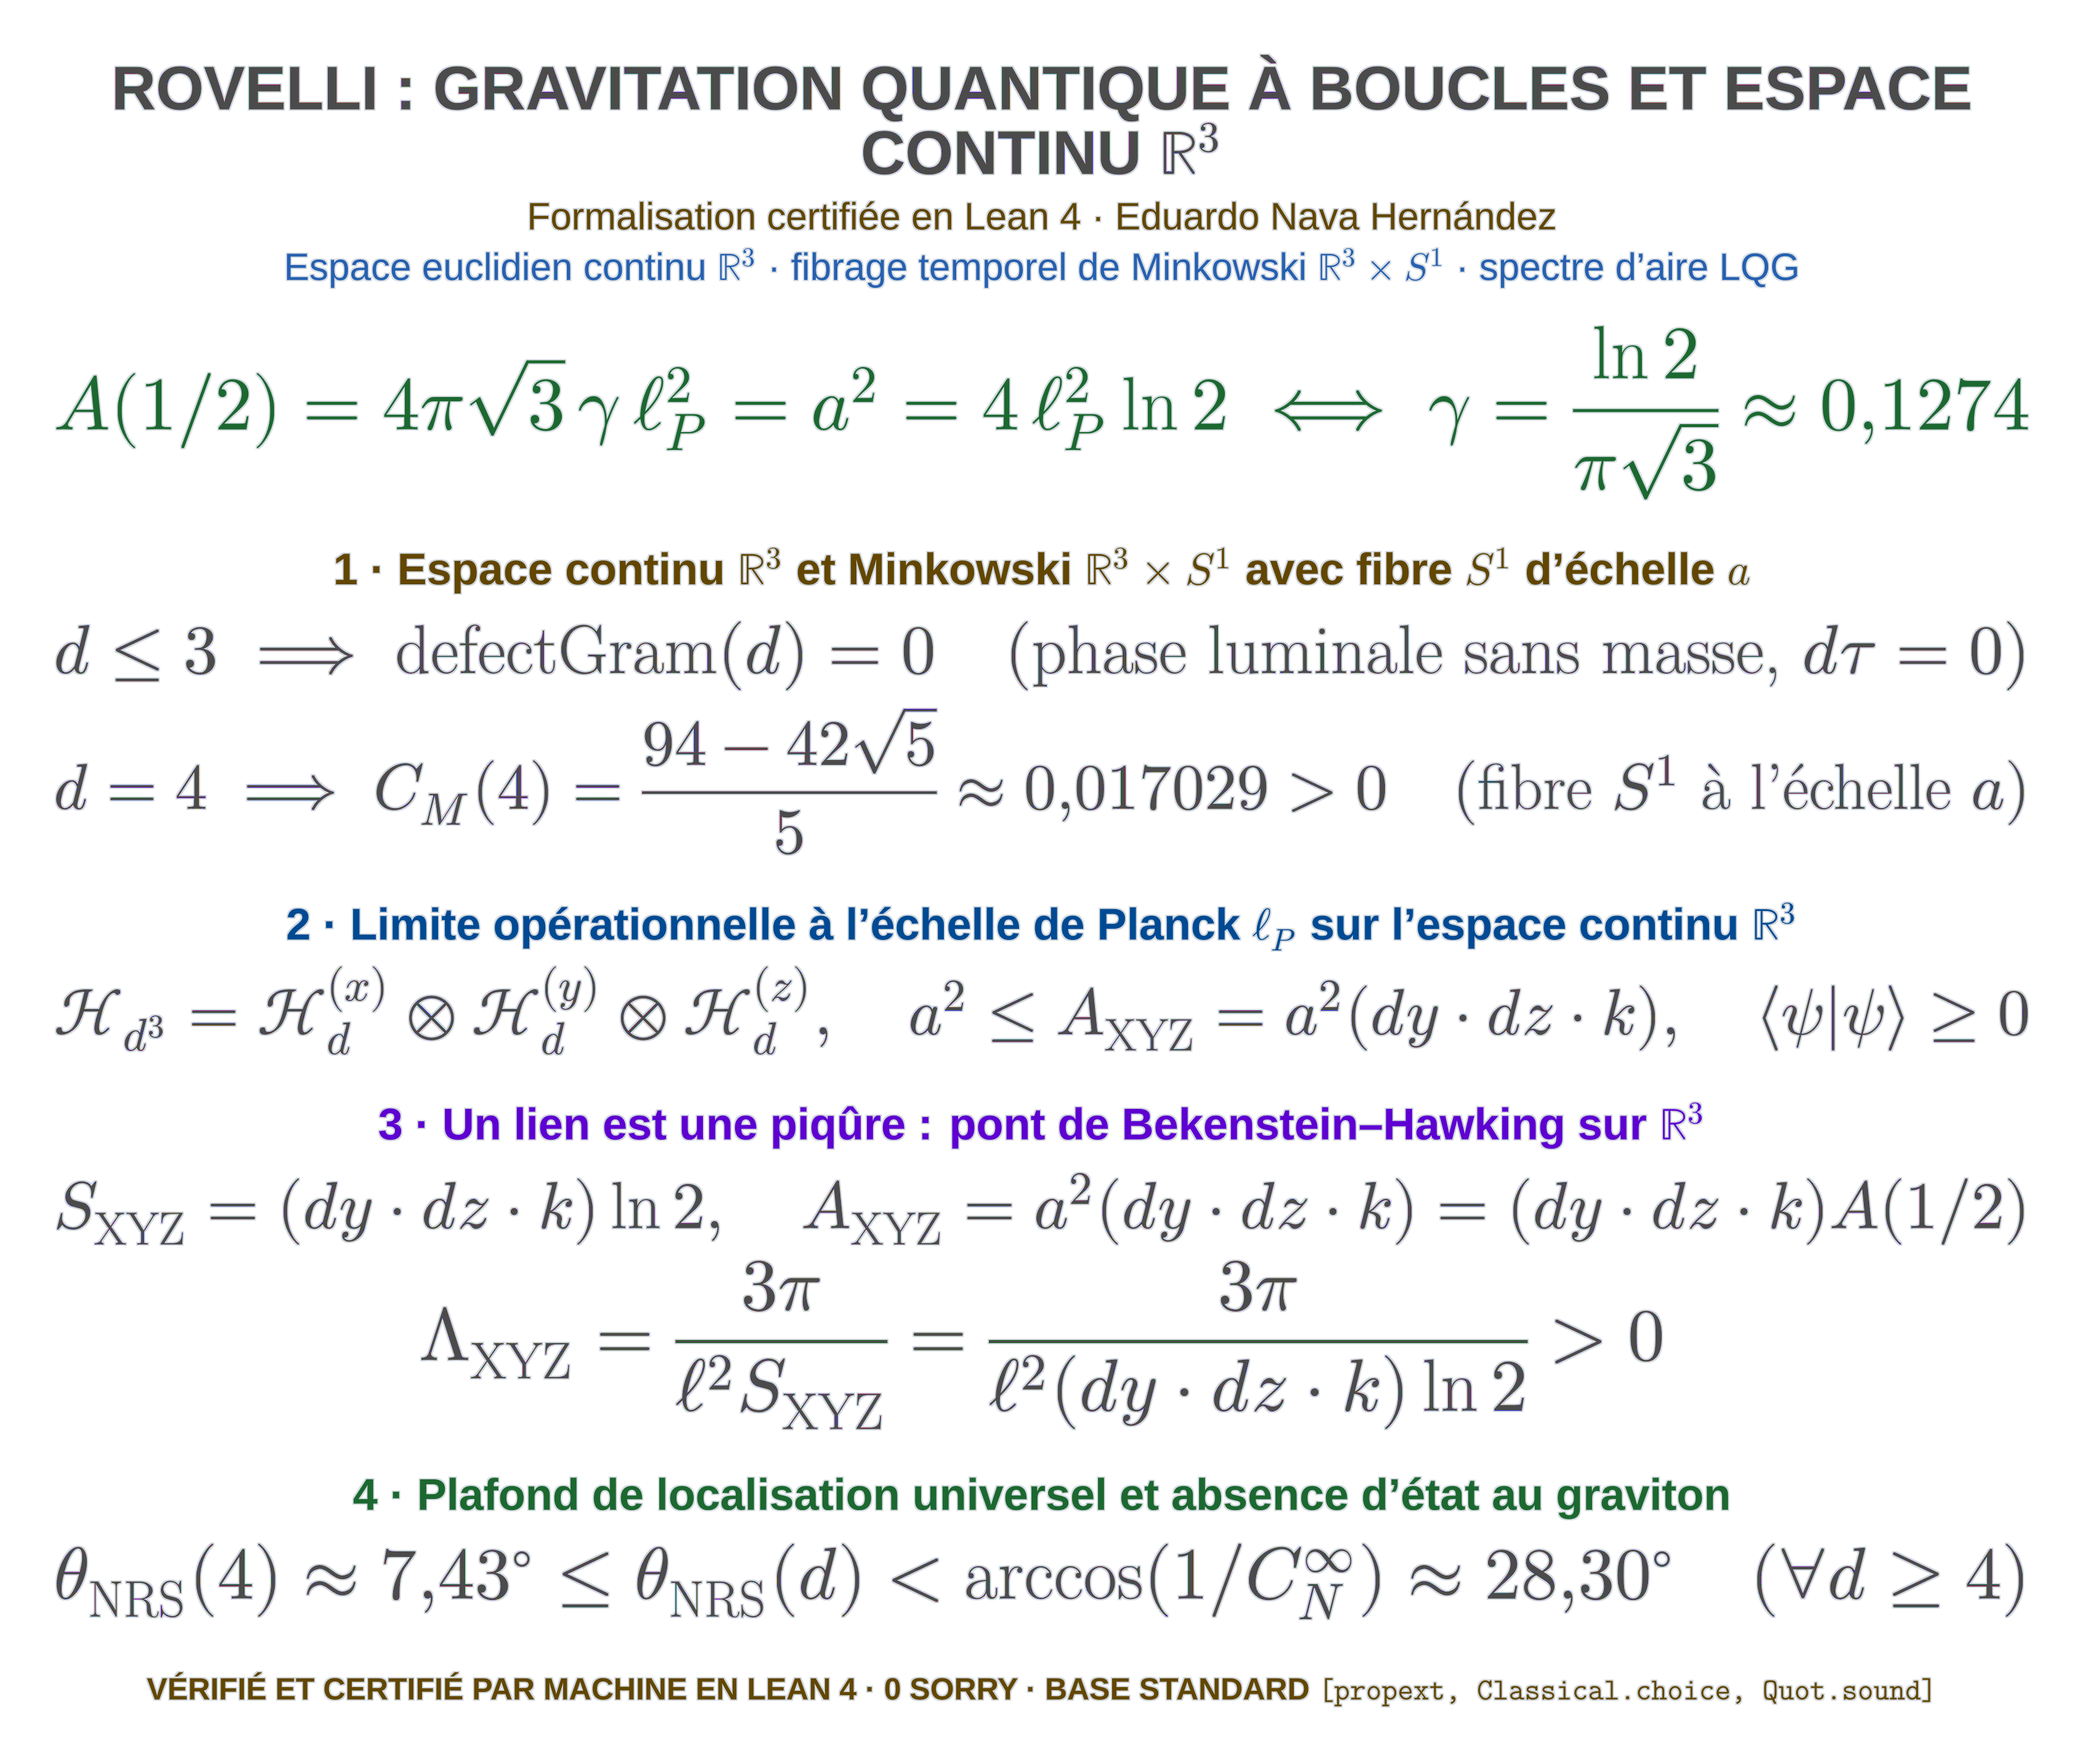
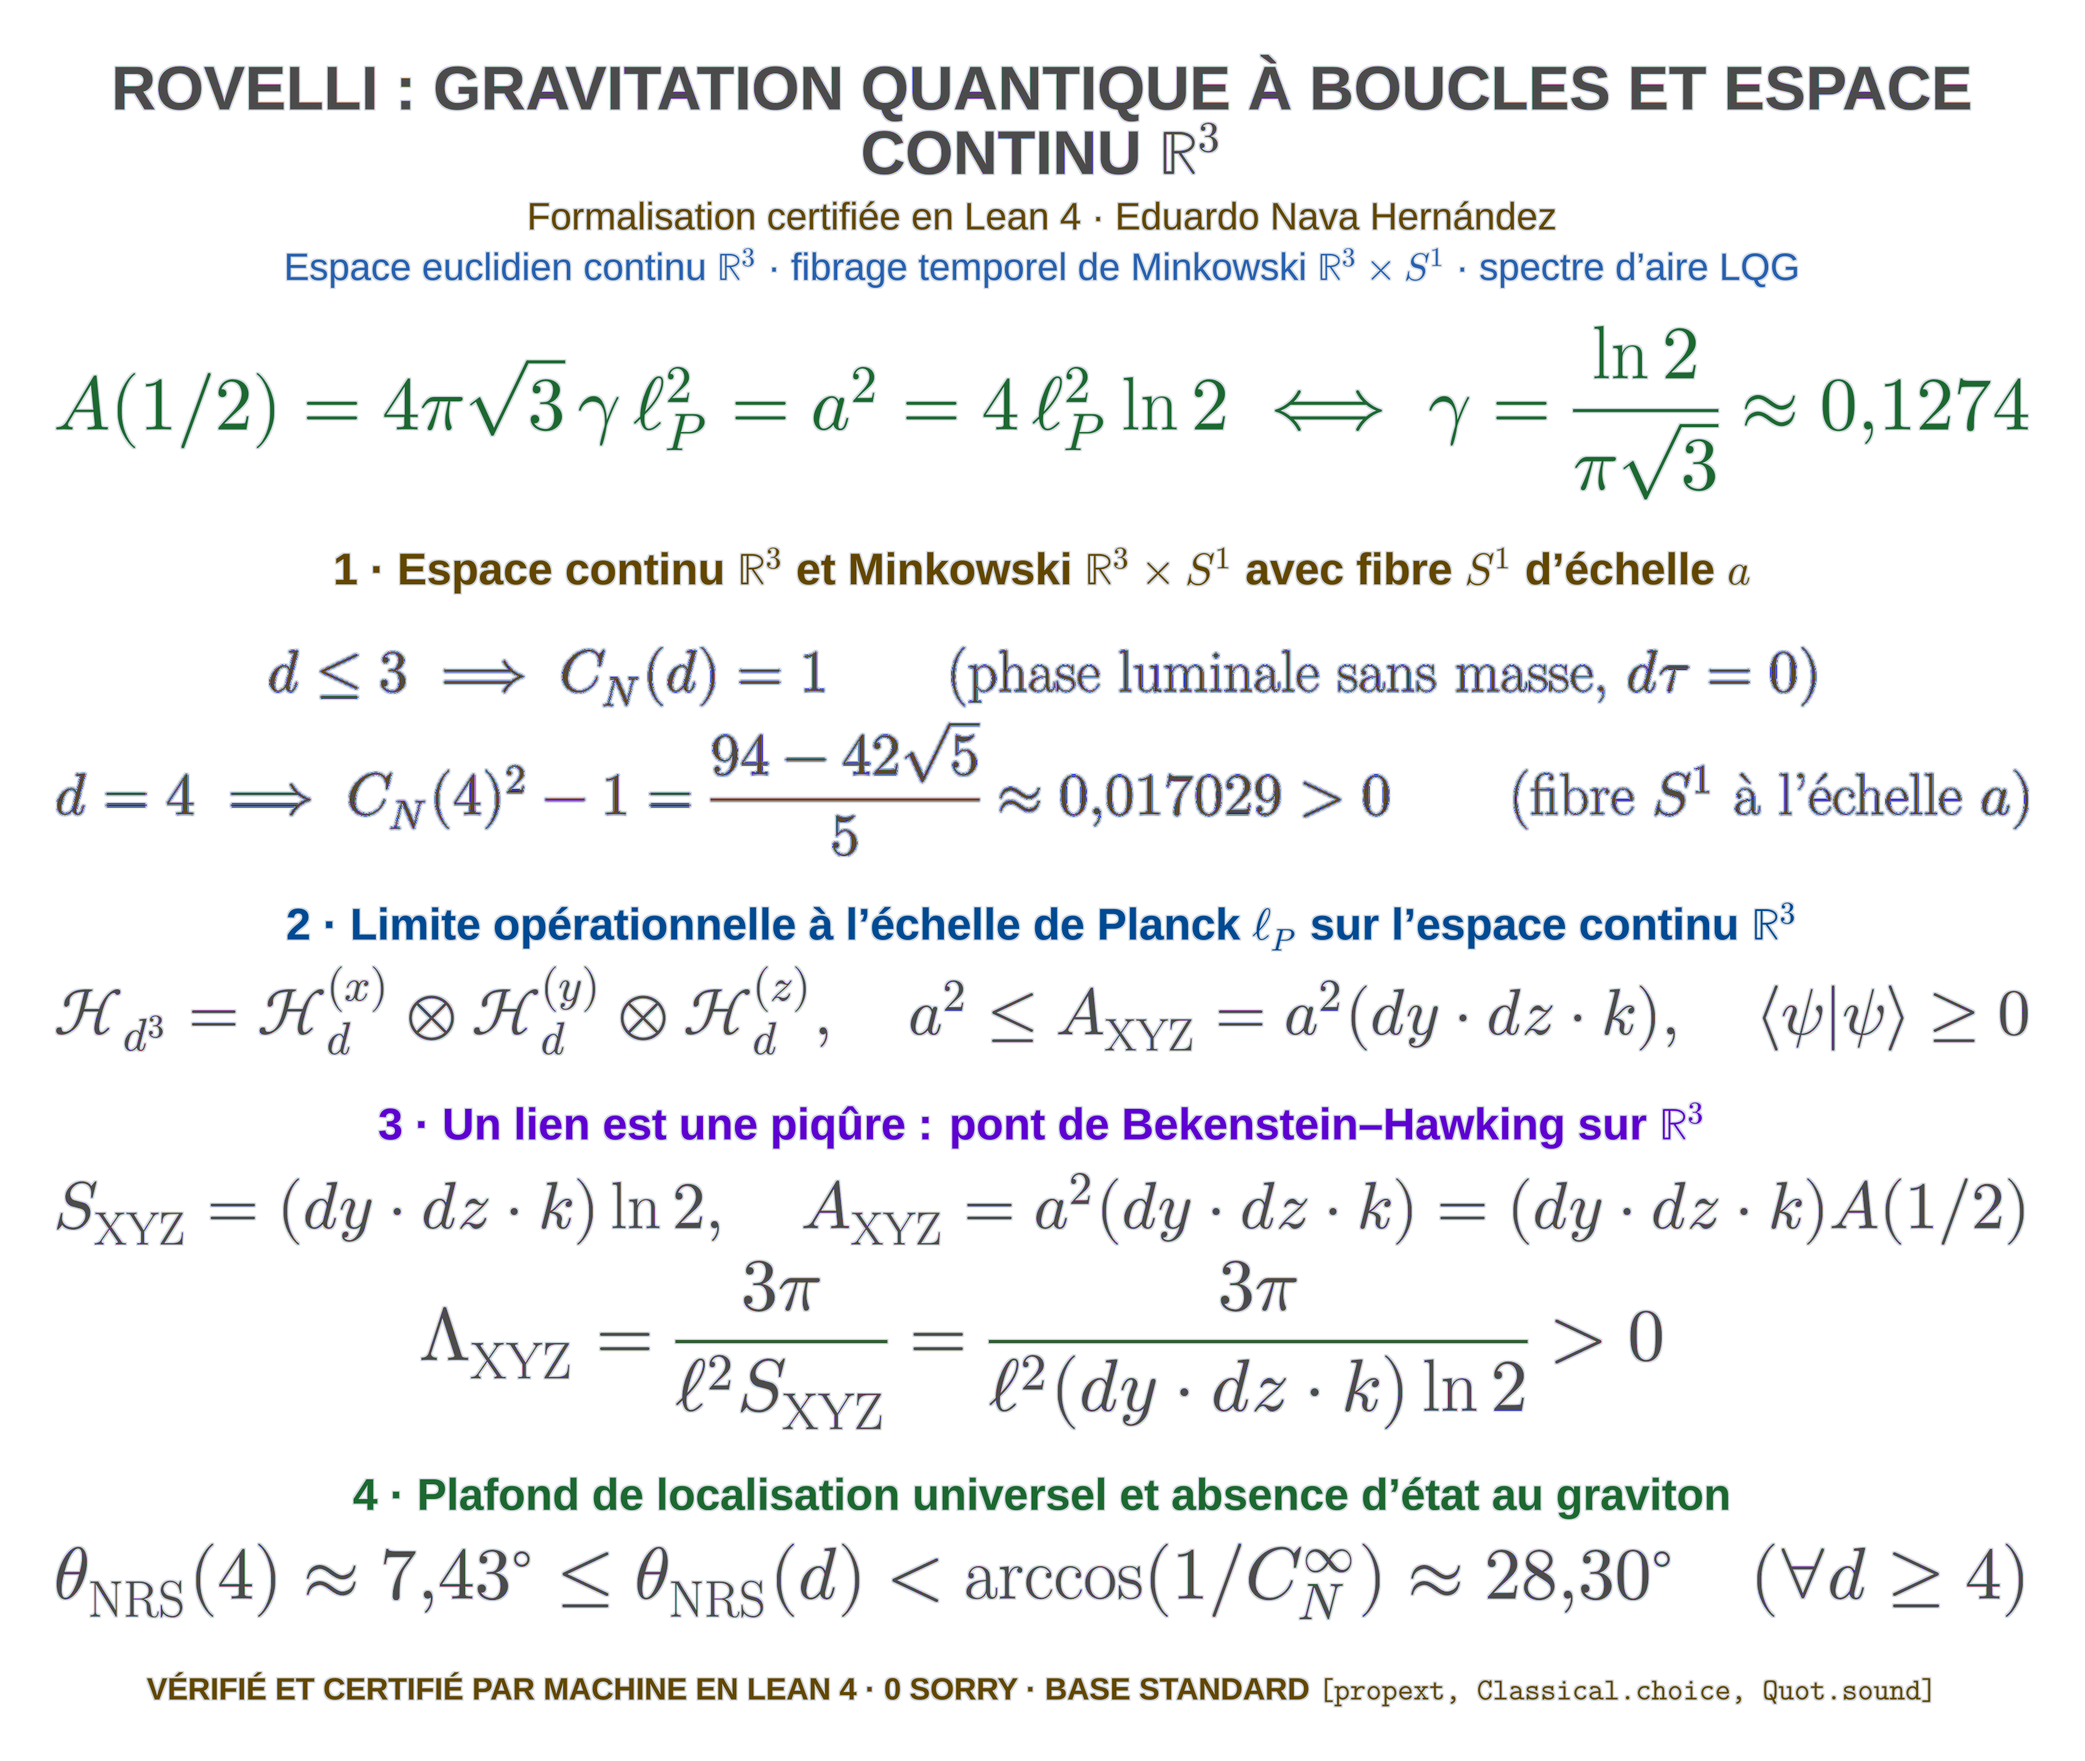
docs(readme): résumé formel, Physlib, catalogue, ordre canonique ; pilier 1 en C_N, plafond ≈ 28,30°

diff --git a/README.md b/README.md
@@ -42,10 +42,10 @@
 > **1 · Espace continu infini ℝ³ et Minkowski ℝ³ × S¹ avec fibre temporelle d'échelle a.**  
 > L'espace physique tridimensionnel est l'espace euclidien continu ouvert ℝ³.
 > La 4ᵉ dimension est la fibre temporelle propre sur S¹ à l'échelle du générateur `a` :
-> * Phase spatiale pure 3D (`d ≤ 3`) : `defectGram(d) = 0`, phase luminale sans masse (`dτ = 0`).
+> * Phase spatiale pure 3D (`d ≤ 3`) : `C_N(d) = 1`, phase luminale sans masse (`dτ = 0`).
 > * Parcours du temps propre (`d = 4`, `dτ > 0`) : active les matrices de Clifford et le défaut
->   irréductible de Szegő `C_M(4) = (94 − 42√5)/5 ≈ 0.017029 > 0`.
-> * Positivité hilbertienne : `⟨ψ|ψ⟩ ≥ 0 ⟹ defectGram(d) ≥ 0` (flèche causale stricte).
+>   irréductible de Szegő `C_N(4)² − 1 = (94 − 42√5)/5 ≈ 0.017029 > 0` (dépôt canonique, modules D8 et D20).
+> * Positivité hilbertienne : `⟨ψ|ψ⟩ ≥ 0 ⟹` défaut de Gram `≥ 0` (flèche causale stricte).
 >
 > **2 · Limite opérationnelle à l'échelle de Planck ℓ_P (pas de treillis spatial rigide).**  
 > Ce qui est quantifié est la résolution `d` du générateur de transport métrique `(T_d, P_d)`
@@ -81,7 +81,18 @@
 
 ---
 
-## Cadre géométrique : espace continu ℝ³ et variété Minkowski ℝ³ × S¹
+## ⚡ Résumé formel
+
+* Le spectre d'aire est strictement croissant et son quantum minimal est `A(1/2) = 4 π √3 γ ℓ_P²` : [`NRS3Rovelli/AreaSpectrum.lean`](NRS3Rovelli/AreaSpectrum.lean) (`areaSpectrum_strictMono`, `areaSpectrum_half`, `areaSpectrum_min`).
+* L'entropie des piqûres est le logarithme du nombre d'états, proportionnelle à l'aire ; Bekenstein–Hawking vaut si et seulement si `γ = log 2 / (π √3)` : [`NRS3Rovelli/PunctureEntropy.lean`](NRS3Rovelli/PunctureEntropy.lean) (`punctureEntropy_eq_log_card`, `entropy_proportional_to_area`, `bekensteinHawking_iff_immirzi`).
+* Sur la coupe en `0` de la chaîne à quatre sites, `M = 2` : `k` liens sont `k` piqûres de spin 1/2 : [`NRS3Rovelli/LinkPuncture.lean`](NRS3Rovelli/LinkPuncture.lean) (`numCross_three_zero`, `cutEntropy_spin_half`).
+* Une face du cube ouvert a `dy · dz` positions et son aire est l'aire LQG de ses piqûres : [`NRS3Rovelli/OpenCubeBridge.lean`](NRS3Rovelli/OpenCubeBridge.lean) (`card_faceSites`, `faceArea_eq_surfaceArea`).
+* Sur la tranche transverse, Bekenstein–Hawking fixe le même γ et `Λ = 3 π / (ℓ² dy dz k log 2) > 0` : [`NRS3Rovelli/CubeXYZ.lean`](NRS3Rovelli/CubeXYZ.lean) (`immirzi_bekensteinHawking_iff`, `cosmologicalConstantXYZ_pos`).
+* `θ_NRS(d) < arccos(1 / C_N^∞) ≈ 28,30°` pour tout `d ≥ 4` ; le plafond n'est pas atteint et c'est la borne supérieure : [`NRS3Rovelli/Ceiling.lean`](NRS3Rovelli/Ceiling.lean) (`angle_lt_ceiling`, `ceiling_not_attained`, `ceiling_isLUB`).
+
+---
+
+## 🧭 Cadre géométrique : espace continu ℝ³ et variété Minkowski ℝ³ × S¹
 
 Dans la physique standard, on postule parfois une géométrie pré-discrétisée ou un treillis
 d'espace. La géométrie physique démontrée ici en est l'exact opposé : **l'espace euclidien
@@ -96,11 +107,11 @@ La paire d'opérateurs `(T_d, P_d)` représente le transport métrique :
 * L'espace-temps physique est la variété de Minkowski `ℝ³ × S¹` avec la fibre temporelle propre
   sur `S¹` à l'échelle de longueur `a` :
   * En dimension spatiale pure 3D (`d ≤ 3`), la saturation de Robertson–Schrödinger est exacte :
-    `defectGram = 0`, `C_N = 1`. Le transport est luminal (`dτ = 0`) et sans masse.
+    `C_N = 1`. Le transport est luminal (`dτ = 0`) et sans masse.
   * L'avancée le long de la fibre temporelle propre (`d = 4`, `dτ > 0`) active les matrices
     gamma de Dirac `4 × 4` et le défaut irréductible de Szegő :
-    `C_M(4) = (94 − 42√5)/5 ≈ 0.017029 > 0`.
-  * La positivité du produit scalaire `⟨ψ|ψ⟩ ≥ 0` garantit `defectGram(d) ≥ 0`.
+    `C_N(4)² − 1 = (94 − 42√5)/5 ≈ 0.017029 > 0` (dépôt canonique, modules D8 et D20).
+  * La positivité du produit scalaire `⟨ψ|ψ⟩ ≥ 0` garantit un défaut de Gram `≥ 0`.
 * La longueur de Planck `ℓ_P` agit comme **limite opérationnelle** de résolution de mesure
   sur l'espace continu ℝ³, établissant le quantum d'aire minimal `A(1/2) = a² = 4 ℓ_P² log 2`.
 
@@ -155,7 +166,25 @@ La paire d'opérateurs `(T_d, P_d)` représente le transport métrique :
 
 ---
 
-## Résultats formels certifiés en Lean 4
+## 🔬 Contributions Physlib fusionnées liées
+
+| PR Physlib | Titre | Lien avec ce dépôt | Statut |
+|:---:|:---|:---|:---:|
+| [**#1725**](https://github.com/leanprover-community/physlib/pull/1725) | the open tight binding cube NRS³ | Le cube ouvert dont une face porte les piqûres (`OpenCubeBridge.lean`), étape 4 | **MERGED** |
+| [**#1756**](https://github.com/leanprover-community/physlib/pull/1756) | the NRS angle and the volumetric quantum of the open tight binding cube | `θ_NRS = arccos(1 / C_N)`, croissant et sous `arccos(1 / C_N^∞)` : le plafond de l'étape 4 | **MERGED** |
+
+---
+
+## 📚 Catalogue des modules Lean
+
+| Module | Théorème principal | Signification | `sorry` |
+|:---|:---|:---|:---:|
+| [`NRS3Rovelli/AreaSpectrum.lean`](NRS3Rovelli/AreaSpectrum.lean) | `areaSpectrum_min` | Toute aire de spin `j ≥ 1/2` est `≥ A(1/2)` | 0 |
+| [`NRS3Rovelli/PunctureEntropy.lean`](NRS3Rovelli/PunctureEntropy.lean) | `bekensteinHawking_iff_immirzi` | `S = A / (4 ℓ_P²)` ⟺ `γ = log 2 / (π √3)` | 0 |
+| [`NRS3Rovelli/LinkPuncture.lean`](NRS3Rovelli/LinkPuncture.lean) | `cutEntropy_spin_half` | `k` liens de la coupe = `k` piqûres de spin 1/2 | 0 |
+| [`NRS3Rovelli/OpenCubeBridge.lean`](NRS3Rovelli/OpenCubeBridge.lean) | `faceArea_eq_surfaceArea` | L'aire d'une face du cube est l'aire LQG | 0 |
+| [`NRS3Rovelli/CubeXYZ.lean`](NRS3Rovelli/CubeXYZ.lean) | `cosmologicalConstantXYZ_pos` | `Λ = 3 π / (ℓ² dy dz k log 2) > 0` | 0 |
+| [`NRS3Rovelli/Ceiling.lean`](NRS3Rovelli/Ceiling.lean) | `angle_lt_ceiling` | `θ_NRS(d) < arccos(1 / C_N^∞)` pour `d ≥ 4` | 0 |
 
 ### 1. Le spectre d'aire LQG et le comptage des piqûres
 
@@ -217,7 +246,7 @@ les axiomes standard de ZFC : `propext`, `Classical.choice` et `Quot.sound`.
 
 ---
 
-## Visualisations interactives et figures
+## 🖼 Visualisations interactives et figures
 
 * Page interactive principale : [naype888-cloud.github.io/nrs3-rovelli-lqg][pages]
   (spectre d'aire LQG, angle de localisation et distance au plafond).
@@ -231,39 +260,7 @@ les axiomes standard de ZFC : `propext`, `Classical.choice` et `Quot.sound`.
 
 ---
 
-## Compilation et certification du noyau
-
-Le projet utilise Lean 4 `v4.34.0` et Mathlib `v4.34.0` via le dépôt de base canonique.
-
-```bash
-lake exe cache get
-lake build
-lake env lean Verification/Axioms.lean   # uniquement propext, Classical.choice, Quot.sound
-```
-
-Spécifications formelles : 0 sorry, aucun axiome ad hoc, `autoImplicit = false`,
-lignes de 100 caractères au maximum.
-
----
-
-## Chronologie 1911–1945
-
-| Année | Événement | Dépôt associé |
-|---|---|---|
-| 1911 | Premier congrès Solvay : radiation et quanta | |
-| 1911–12 | Poincaré : la loi de Planck impose des niveaux discrets | [`nrs3-poincare`](https://github.com/naype888-cloud/nrs3-poincare) |
-| 1915–20 | Szegő : théorèmes limites pour matrices de Toeplitz | [Dépôt de base (RS^N, RS^N³)](https://github.com/naype888-cloud/nava-robertson-schrodinger) |
-| 1917–27 | Einstein et de Sitter : `Λ` ; Friedmann et Lemaître | [`nrs3-de-sitter`](https://github.com/naype888-cloud/nrs3-de-sitter) |
-| 1925–27 | Pauli : exclusion, couches `2n²`, matrices de spin | [`nrs3-pauli-dirac`](https://github.com/naype888-cloud/nrs3-pauli-dirac) |
-| 1927 | Relation d'incertitude de Heisenberg ; Solvay | |
-| 1928 | Dirac : matrices gamma `4 × 4` | [`nrs3-pauli-dirac`](https://github.com/naype888-cloud/nrs3-pauli-dirac) |
-| 1929 | van der Waerden : spineurs, `SL(2, ℂ)` | [`nrs3-uncertainty-cone`](https://github.com/naype888-cloud/nrs3-uncertainty-cone) |
-| **1929–30** | **Robertson et Schrödinger : l'inégalité d'incertitude** | **[Dépôt de base (RS^N, RS^N³)](https://github.com/naype888-cloud/nava-robertson-schrodinger)** |
-| 1945–46 | Mandelstam–Tamm ; Rao (1945), Cramér (1946) | [`nrs3-mandelstam-tamm-cramer-rao`](https://github.com/naype888-cloud/nrs3-mandelstam-tamm-cramer-rao) |
-
----
-
-## La mosaïque des dépôts RS^N³
+## 🏛 La mosaïque des dépôts RS^N³
 
 - [RS^N et RS^N³ — Le théorème de base](https://github.com/naype888-cloud/nava-robertson-schrodinger)
 - [RS^N³ · Mandelstam–Tamm et Cramér–Rao](https://github.com/naype888-cloud/nrs3-mandelstam-tamm-cramer-rao)
@@ -280,6 +277,38 @@ lignes de 100 caractères au maximum.
 
 ---
 
-## Licence
+## ⏱ Chronologie 1911–1945
+
+| Année | Événement | Dépôt associé |
+|---|---|---|
+| 1911 | Premier congrès Solvay : radiation et quanta | |
+| 1911–12 | Poincaré : la loi de Planck impose des niveaux discrets | [`nrs3-poincare`](https://github.com/naype888-cloud/nrs3-poincare) |
+| 1915–20 | Szegő : théorèmes limites pour matrices de Toeplitz | [Dépôt de base (RS^N, RS^N³)](https://github.com/naype888-cloud/nava-robertson-schrodinger) |
+| 1917–27 | Einstein et de Sitter : `Λ` ; Friedmann et Lemaître | [`nrs3-de-sitter`](https://github.com/naype888-cloud/nrs3-de-sitter) |
+| 1925–27 | Pauli : exclusion, couches `2n²`, matrices de spin | [`nrs3-pauli-dirac`](https://github.com/naype888-cloud/nrs3-pauli-dirac) |
+| 1927 | Relation d'incertitude de Heisenberg ; Solvay | |
+| 1928 | Dirac : matrices gamma `4 × 4` | [`nrs3-pauli-dirac`](https://github.com/naype888-cloud/nrs3-pauli-dirac) |
+| 1929 | van der Waerden : spineurs, `SL(2, ℂ)` | [`nrs3-uncertainty-cone`](https://github.com/naype888-cloud/nrs3-uncertainty-cone) |
+| **1929–30** | **Robertson et Schrödinger : l'inégalité d'incertitude** | **[Dépôt de base (RS^N, RS^N³)](https://github.com/naype888-cloud/nava-robertson-schrodinger)** |
+| 1945–46 | Mandelstam–Tamm ; Rao (1945), Cramér (1946) | [`nrs3-mandelstam-tamm-cramer-rao`](https://github.com/naype888-cloud/nrs3-mandelstam-tamm-cramer-rao) |
+
+---
+
+## 🛠 Compilation et certification du noyau
+
+Le projet utilise Lean 4 `v4.34.0` et Mathlib `v4.34.0` via le dépôt de base canonique.
+
+```bash
+lake exe cache get
+lake build
+lake env lean Verification/Axioms.lean   # uniquement propext, Classical.choice, Quot.sound
+```
+
+Spécifications formelles : 0 sorry, aucun axiome ad hoc, `autoImplicit = false`,
+lignes de 100 caractères au maximum.
+
+---
+
+## 📜 Licence
 
 NRS Noncommercial License 1.0.0, voir [`LICENSE`](LICENSE). Auteur : Eduardo Nava Hernández.
